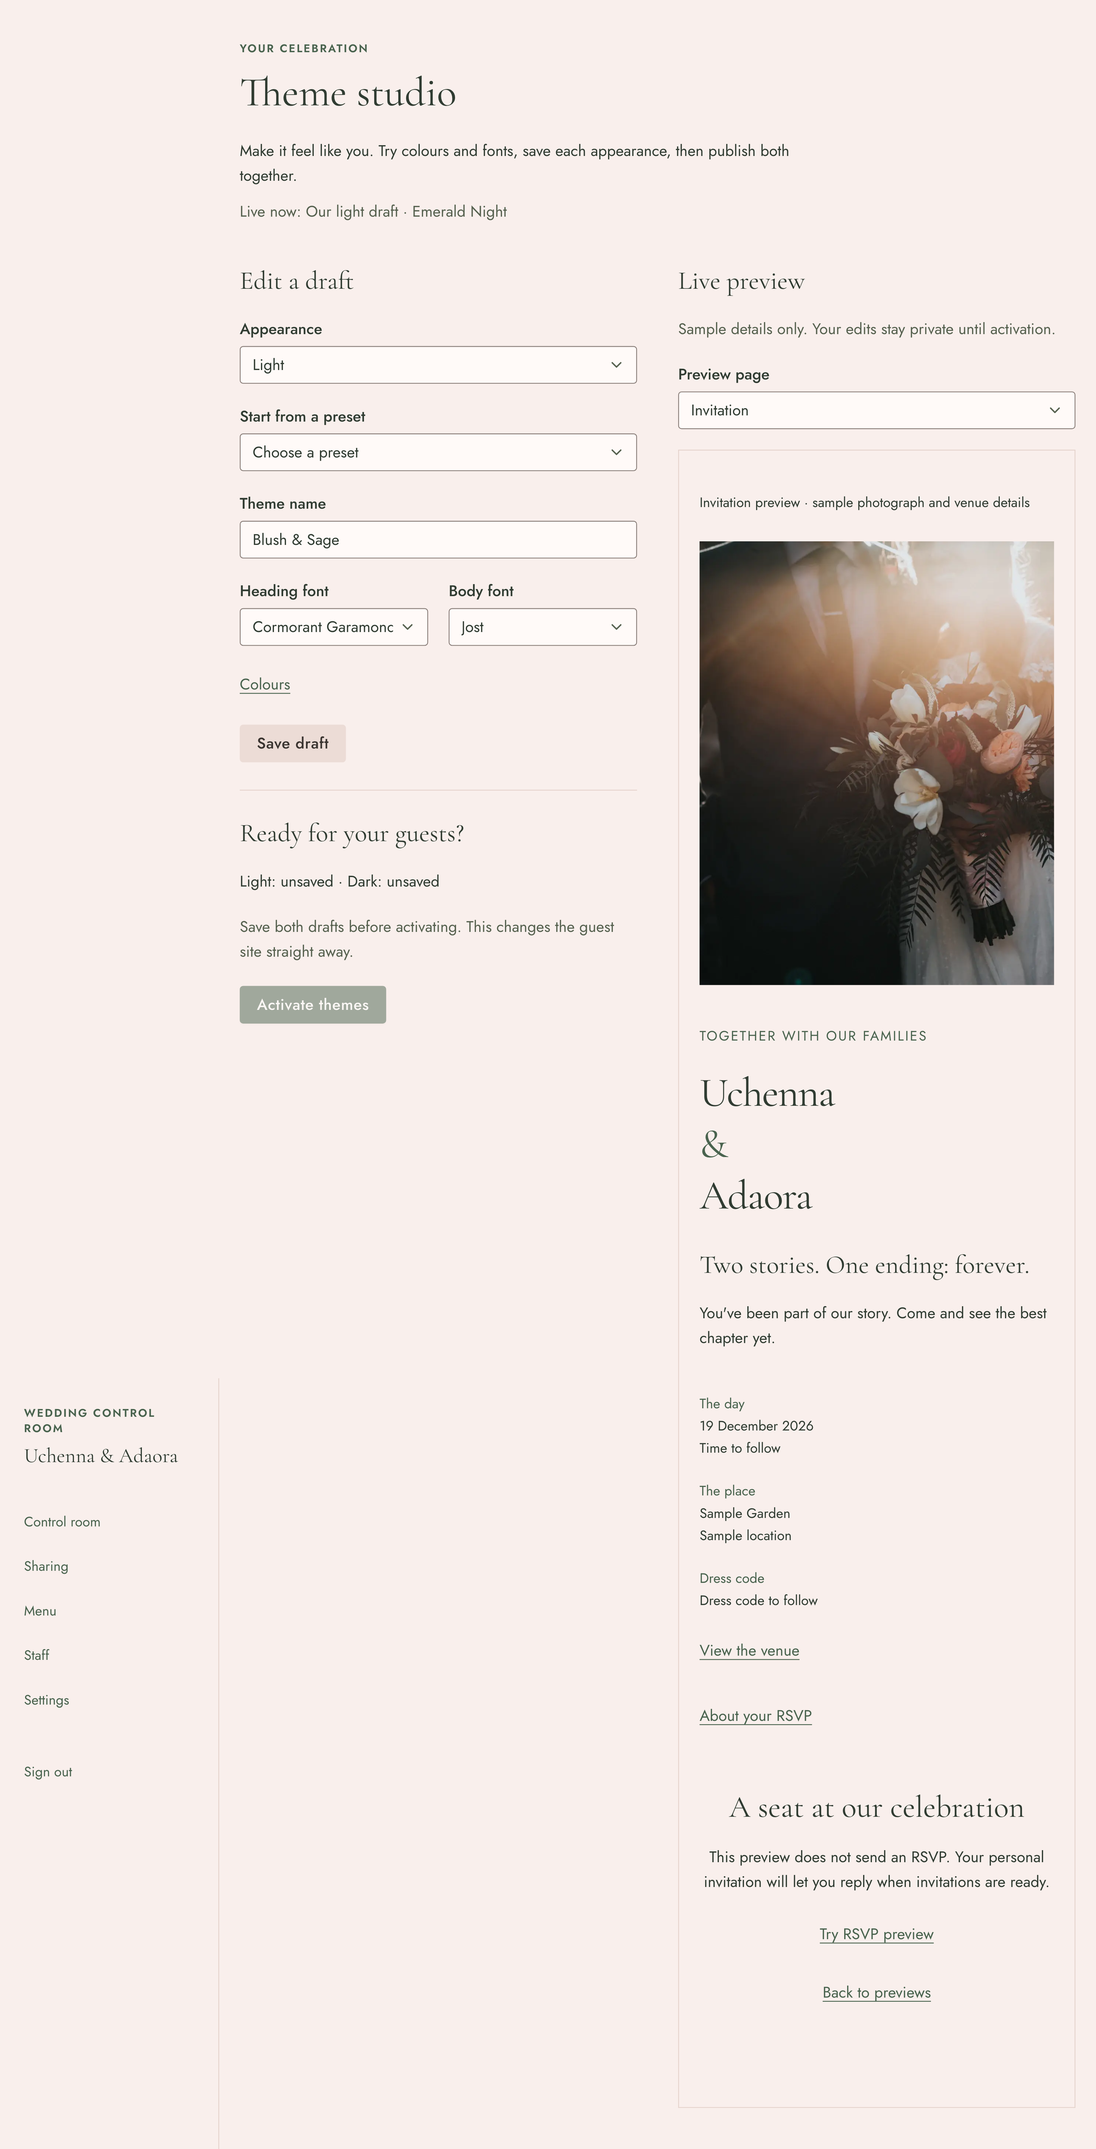
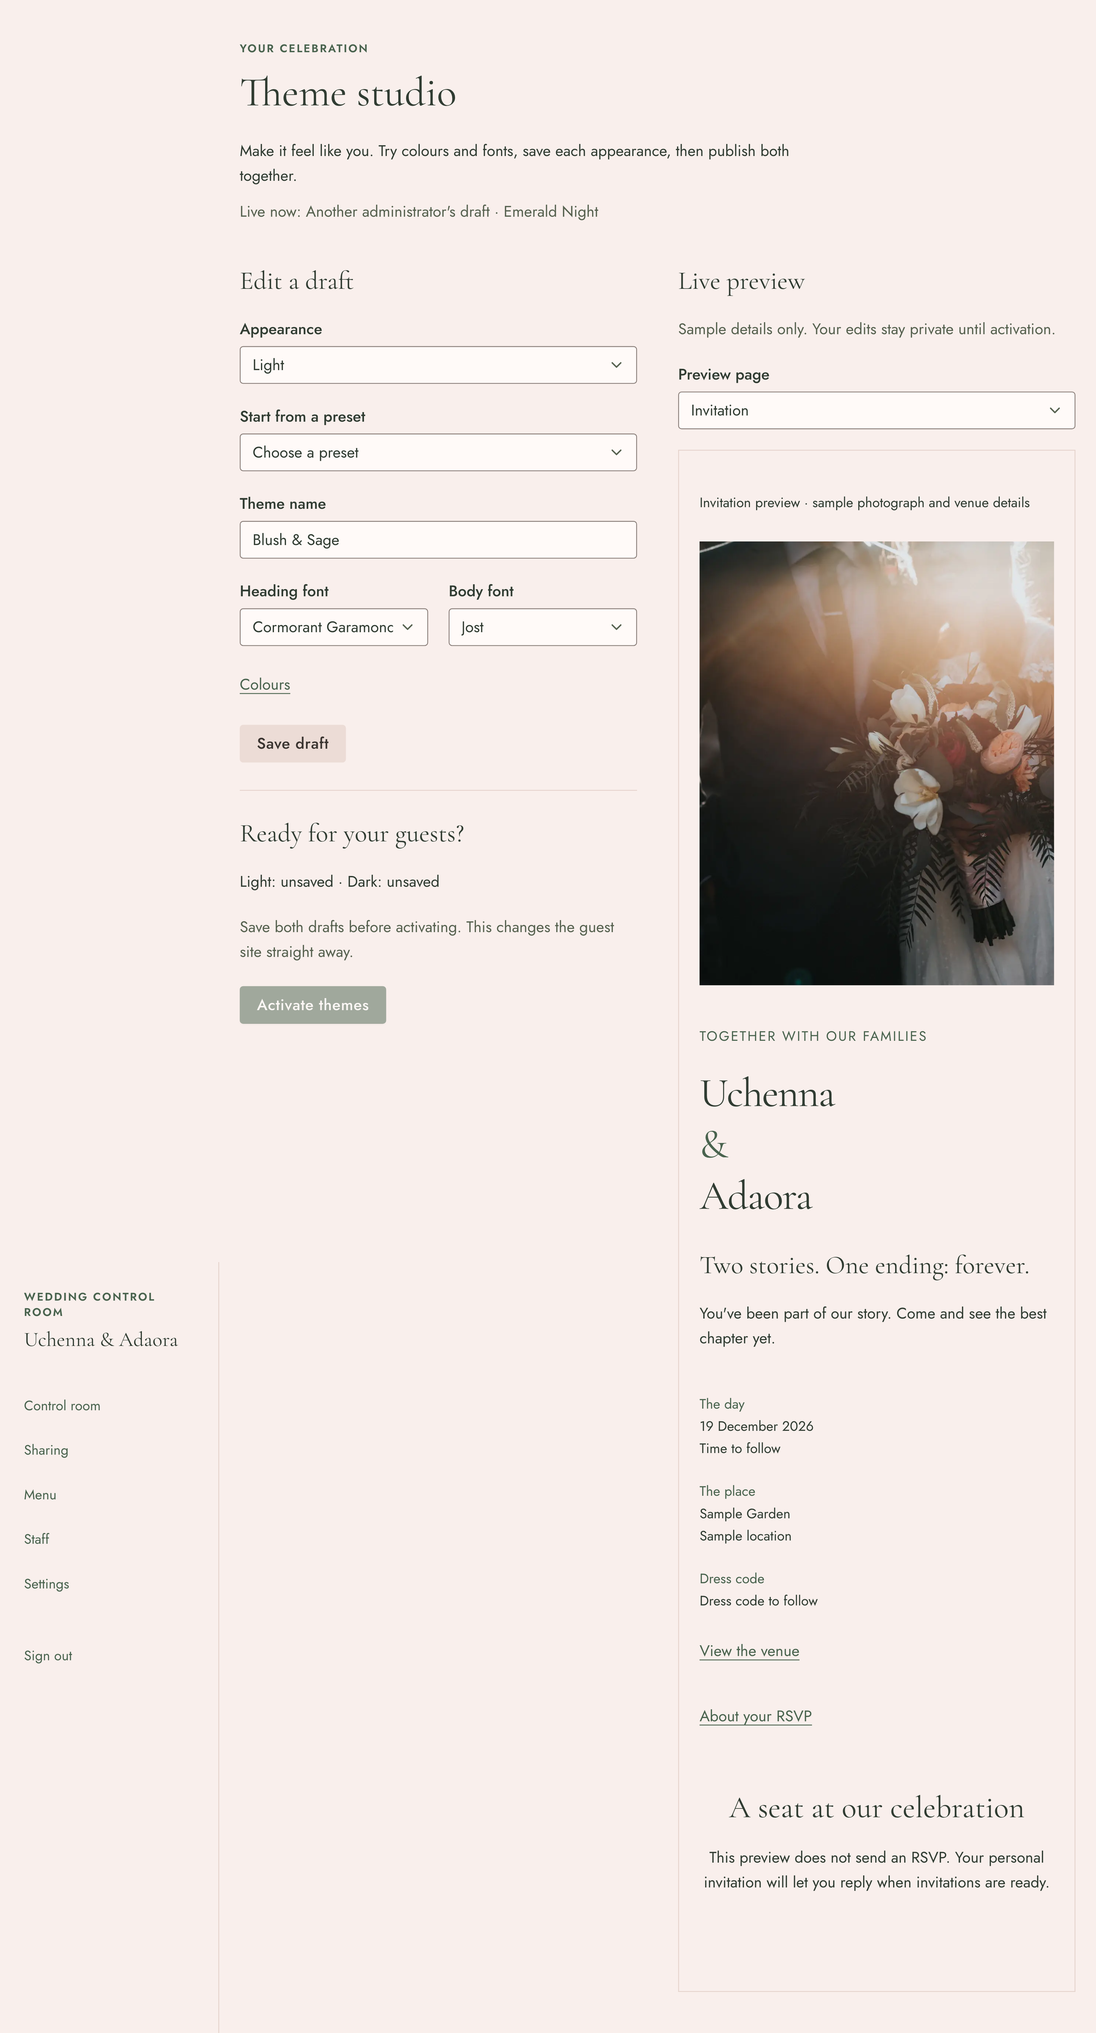
TICKET-098: guard reviewed theme publication and embedded previews

diff --git a/e2e/admin-themes.spec.ts b/e2e/admin-themes.spec.ts
@@ -69,6 +69,7 @@ test.describe("theme studio", () => {
     expect(await db`select id from themes where id='wedding-light'`).toHaveLength(0);
     const frame = page.getByRole("region", { name: "Draft page preview" });
     await expect(frame.getByRole("heading", { name: /Uchenna/ })).toBeVisible();
+    await expect(frame.locator('a[href^="/dev"]')).toHaveCount(0);
     await page.getByLabel("foreground hex", { exact: true }).fill(light.colors.foreground);
     await page.getByLabel("Theme name").fill("Our light draft");
     await page.getByLabel("Heading font").focus();
@@ -87,8 +88,37 @@ test.describe("theme studio", () => {
     await page.reload();
     await expect(page.getByLabel("Theme name")).toHaveValue("Our light draft");
     await expect(page.getByLabel("Heading font")).toHaveValue("playfair");
-    await page.getByLabel("Preview page").selectOption("order");
+    await page.getByLabel("Preview page").scrollIntoViewIfNeeded();
+    await page.getByLabel("Preview page").focus();
+    await expect(page.getByLabel("Preview page")).toBeFocused();
+    await page.keyboard.press("ArrowDown");
+    await expect(page.getByLabel("Preview page")).toHaveValue("order");
+    await expect(page.getByLabel("Preview page")).toBeFocused();
     await expect(frame.getByRole("heading", { name: "Where are you sitting?" })).toBeVisible();
+    await frame.getByLabel("Table number").fill("1");
+    await frame.getByRole("button", { name: "Browse menu" }).click();
+    await expect(
+      frame.getByRole("heading", { name: "Hungry? Thirsty? Say the word." }),
+    ).toBeFocused();
+    const otherEditor = await page.context().newPage();
+    try {
+      await otherEditor.goto("/admin/themes");
+      await otherEditor.getByLabel("Theme name").fill("Another administrator's draft");
+      await otherEditor.getByRole("button", { name: "Save draft", exact: true }).click();
+      await expect(otherEditor.getByRole("main").getByRole("status").last()).toContainText(
+        "Draft saved",
+      );
+      await page.getByRole("button", { name: "Activate themes" }).click();
+      await expect(page.getByRole("main").getByRole("alert").last()).toContainText(
+        "changed in another editor",
+      );
+      const [unpublished] = await db`select published_tokens from themes where id='wedding-light'`;
+      expect(unpublished?.published_tokens).toBeNull();
+    } finally {
+      await otherEditor.close();
+    }
+    await page.reload();
+    await expect(page.getByLabel("Theme name")).toHaveValue("Another administrator's draft");
     await page.getByRole("button", { name: "Activate themes" }).click();
     await expect(page.getByRole("main").getByRole("status").last()).toContainText(
       "Your themes are live",

diff --git a/src/modules/theming/__tests__/active-themes.test.ts b/src/modules/theming/__tests__/active-themes.test.ts
@@ -20,6 +20,9 @@ vi.mock("../server/theme-repository", () => ({
 
 vi.mock("../server/theme-draft-repository", () => ({ publishThemeDrafts: ports.save }));
 
+import { getTheme } from "../lib/registry";
+const reviewed = { light: getTheme("ivory-gold"), dark: getTheme("emerald-night") };
+
 import { activateThemeSelection, getStoredActiveThemes } from "../server/active-themes";
 
 afterEach(() => {
@@ -36,8 +39,12 @@ describe("theme cache boundary", () => {
   });
   it("expires the same tag immediately after a persisted activation", async () => {
     ports.save.mockResolvedValue(undefined);
-    await activateThemeSelection({ light: "ivory-gold", dark: "emerald-night" });
-    expect(ports.save).toHaveBeenCalledWith({ light: "ivory-gold", dark: "emerald-night" });
+    await activateThemeSelection({ light: "ivory-gold", dark: "emerald-night", reviewed });
+    expect(ports.save).toHaveBeenCalledWith(
+      { light: "ivory-gold", dark: "emerald-night" },
+      undefined,
+      reviewed,
+    );
     expect(ports.invalidate).toHaveBeenCalledWith("active-theme-pair", { expire: 0 });
     expect(ports.save.mock.invocationCallOrder[0]).toBeLessThan(
       ports.invalidate.mock.invocationCallOrder[0] ?? 0,
@@ -57,7 +64,15 @@ describe("theme cache boundary", () => {
 it("does not invalidate the active cache if publication fails", async () => {
   ports.save.mockRejectedValueOnce(new Error("publication rolled back"));
   await expect(
-    activateThemeSelection({ light: "ivory-gold", dark: "emerald-night" }),
+    activateThemeSelection({ light: "ivory-gold", dark: "emerald-night", reviewed }),
   ).rejects.toThrow("publication rolled back");
+  expect(ports.invalidate).not.toHaveBeenCalled();
+});
+
+it("requires reviewed tokens rather than publishing by ID alone", async () => {
+  await expect(
+    activateThemeSelection({ light: "ivory-gold", dark: "emerald-night" }),
+  ).rejects.toThrow();
+  expect(ports.save).not.toHaveBeenCalled();
   expect(ports.invalidate).not.toHaveBeenCalled();
 });

diff --git a/src/modules/admin/__tests__/theme-actions.test.ts b/src/modules/admin/__tests__/theme-actions.test.ts
@@ -1,5 +1,7 @@
 import { beforeEach, expect, it, vi } from "vitest";
 import { themes } from "@/modules/theming/themes";
+import { getTheme } from "@/modules/theming/lib/registry";
+import { ThemeValidationError } from "@/modules/theming/lib/load-theme";
 const ports = vi.hoisted(() => ({ access: vi.fn(), save: vi.fn(), activate: vi.fn() }));
 vi.mock("../server/current-admin-access", () => ({ currentAdminAccess: ports.access }));
 vi.mock("@/modules/theming/server/theme-draft-repository", () => ({
@@ -35,7 +37,11 @@ it("saves valid drafts only after the ready administrator check", async () => {
   );
 });
 it("activates through the atomic publication/cache service", async () => {
-  const selection = { light: "ivory-gold", dark: "emerald-night" };
+  const selection = {
+    light: "ivory-gold",
+    dark: "emerald-night",
+    reviewed: { light: getTheme("ivory-gold"), dark: getTheme("emerald-night") },
+  };
   expect(await activateThemeDraftAction(selection)).toEqual({ status: "activated" });
   expect(ports.activate).toHaveBeenCalledExactlyOnceWith(selection);
 });
@@ -44,4 +50,17 @@ it("does not disclose storage exception text", async () => {
   const result = await activateThemeDraftAction({ light: "ivory-gold", dark: "emerald-night" });
   expect(result.status).toBe("unavailable");
   expect(JSON.stringify(result)).not.toContain("private connection");
+});
+
+it("returns a recoverable validation message for stale draft publication", async () => {
+  ports.activate.mockRejectedValue(
+    new ThemeValidationError("Saved drafts changed. Reload to review."),
+  );
+  expect(
+    await activateThemeDraftAction({
+      light: "ivory-gold",
+      dark: "emerald-night",
+      reviewed: { light: getTheme("ivory-gold"), dark: getTheme("emerald-night") },
+    }),
+  ).toEqual({ status: "invalid", message: "Saved drafts changed. Reload to review." });
 });

diff --git a/scripts/__tests__/theme-publication.integration.test.ts b/scripts/__tests__/theme-publication.integration.test.ts
@@ -73,6 +73,28 @@ describe.runIf(process.env.RUN_THEME_PUBLICATION_DB_TESTS === "1")(
         expect(active.map((row) => row.id).sort()).toEqual([pair.light.id, pair.dark.id].sort());
       }));
 
+    it("rejects a stale editor snapshot without publishing or changing selection", () =>
+      isolated(async (database) => {
+        const { persistThemeDraft, publishThemeDrafts } =
+          await import("../../src/modules/theming/server/theme-draft-repository");
+        const { loadPublishedThemeSelection } =
+          await import("../../src/modules/theming/server/theme-repository");
+        const pair = fixture();
+        const ids = { light: pair.light.id, dark: pair.dark.id };
+        await persistThemeDraft(pair.light, database);
+        await persistThemeDraft(pair.dark, database);
+        await publishThemeDrafts(ids, database, pair);
+        const before = await loadPublishedThemeSelection(database);
+        const changed = { ...pair.light, name: "Other administrator's draft" };
+        await persistThemeDraft(changed, database);
+        await expect(publishThemeDrafts(ids, database, pair)).rejects.toThrow(/changed.*Reload/);
+        expect(await loadPublishedThemeSelection(database)).toEqual(before);
+        await publishThemeDrafts(ids, database, { ...pair, light: changed });
+        expect((await loadPublishedThemeSelection(database))?.published.light).toMatchObject({
+          name: changed.name,
+        });
+      }));
+
     it("preserves the selected pair when stored draft validation fails", () =>
       isolated(async (database) => {
         const { persistThemeDraft, publishThemeDrafts } =

diff --git a/src/modules/theming/server/theme-draft-repository.ts b/src/modules/theming/server/theme-draft-repository.ts
@@ -2,10 +2,10 @@ import "server-only";
 import { eq, inArray, sql } from "drizzle-orm";
 import { db, schema, type Db } from "@/modules/shared/server/db/client";
 import { getTheme } from "../lib/registry";
-import type { Theme } from "../lib/schema";
+import type { ActiveThemes, Theme } from "../lib/schema";
 import type { ThemeSelection } from "./stored-themes";
 import { saveThemeSelection } from "./theme-repository";
-import { validateThemePublication } from "./theme-publication";
+import { assertThemeDraftsUnchanged, validateThemePublication } from "./theme-publication";
 
 /** Internal only: caller must validate tokens and authorize an AAL2 administrator. */
 export async function persistThemeDraft(theme: Theme, database: Pick<Db, "insert"> = db) {
@@ -26,6 +26,7 @@ export async function persistThemeDraft(theme: Theme, database: Pick<Db, "insert
 export async function publishThemeDrafts(
   selection: ThemeSelection,
   database: Pick<Db, "transaction"> = db,
+  reviewed?: ActiveThemes,
 ) {
   return database.transaction(async (tx) => {
     // One transaction-scoped lock serializes all publications, including initial setup.
@@ -44,6 +45,7 @@ export async function publishThemeDrafts(
     if (pair.light.id !== selection.light || pair.dark.id !== selection.dark) {
       throw new Error("Stored theme identity does not match its selection");
     }
+    if (reviewed) assertThemeDraftsUnchanged(pair, reviewed);
     await tx.update(schema.themes).set({ isActive: false }).where(eq(schema.themes.isActive, true));
     for (const theme of [pair.light, pair.dark]) {
       await tx

diff --git a/src/modules/theming/__tests__/theme-publication.test.ts b/src/modules/theming/__tests__/theme-publication.test.ts
@@ -1,5 +1,5 @@
 import { expect, it } from "vitest";
-import { validateThemePublication } from "../server/theme-publication";
+import { assertThemeDraftsUnchanged, validateThemePublication } from "../server/theme-publication";
 import { themes } from "../themes";
 
 const light = themes.find((theme) => theme.colorScheme === "light");
@@ -21,4 +21,28 @@ it("rejects invalid draft tokens before activation", () => {
 });
 it("rejects a missing side of the pair", () => {
   expect(() => validateThemePublication({ light })).toThrow();
+});
+
+it("rejects another editor's saved changes before publication", () => {
+  expect(() =>
+    assertThemeDraftsUnchanged(
+      { light: { ...light, name: "Another editor" }, dark },
+      { light, dark },
+    ),
+  ).toThrow(/changed.*reload/i);
+});
+it("accepts identical reviewed tokens even with different property order", () => {
+  expect(() =>
+    assertThemeDraftsUnchanged(
+      { light, dark },
+      { dark, light: Object.fromEntries(Object.entries(light).reverse()) },
+    ),
+  ).not.toThrow();
+});
+
+it("treats omitted optional fields the same as undefined after JSON storage", () => {
+  const reviewed = { light: { ...light, pattern: undefined }, dark };
+  expect(() =>
+    assertThemeDraftsUnchanged(JSON.parse(JSON.stringify(reviewed)), reviewed),
+  ).not.toThrow();
 });

diff --git a/src/modules/invitations/components/invitation-view.tsx b/src/modules/invitations/components/invitation-view.tsx
@@ -96,20 +96,24 @@ export function InvitationView({
           This preview does not send an RSVP. Your personal invitation will let you reply when
           invitations are ready.
         </p>
-        <div>
-          <Link
-            href={appRoutes.devRsvp.path}
-            className="mt-6 inline-flex min-h-11 items-center text-primary underline underline-offset-4"
-          >
-            Try RSVP preview
-          </Link>
-        </div>
-        <Link
-          className="mt-6 inline-flex min-h-11 items-center text-primary underline underline-offset-4"
-          href={appRoutes.dev.path}
-        >
-          Back to previews
-        </Link>
+        {!embedded && (
+          <>
+            <div>
+              <Link
+                href={appRoutes.devRsvp.path}
+                className="mt-6 inline-flex min-h-11 items-center text-primary underline underline-offset-4"
+              >
+                Try RSVP preview
+              </Link>
+            </div>
+            <Link
+              className="mt-6 inline-flex min-h-11 items-center text-primary underline underline-offset-4"
+              href={appRoutes.dev.path}
+            >
+              Back to previews
+            </Link>
+          </>
+        )}
       </section>
     </Container>
   );

diff --git a/src/modules/theming/server/active-themes.ts b/src/modules/theming/server/active-themes.ts
@@ -1,6 +1,8 @@
 import "server-only";
 import { cacheLife, cacheTag, revalidateTag } from "next/cache";
 import { logger } from "@/modules/shared/lib/logger";
+import { z } from "zod";
+import { validateThemePublication } from "./theme-publication";
 import { readStoredThemes, selectionSchema } from "./stored-themes";
 
 const THEME_TAG = "active-theme-pair";
@@ -34,8 +36,13 @@ export async function getStoredActiveThemes() {
 
 /** Internal only. Admin actions must authorize before calling this service. */
 export async function activateThemeSelection(input: unknown): Promise<void> {
-  const selection = selectionSchema.parse(input);
+  const { reviewed, ...selection } = selectionSchema
+    .extend({
+      reviewed: z.object({ light: z.unknown(), dark: z.unknown() }).strict(),
+    })
+    .parse(input);
+  const expected = validateThemePublication(reviewed);
   const { publishThemeDrafts } = await import("./theme-draft-repository");
-  await publishThemeDrafts(selection);
+  await publishThemeDrafts(selection, undefined, expected);
   revalidateTag(THEME_TAG, { expire: 0 });
 }

diff --git a/src/modules/theming/server/theme-publication.ts b/src/modules/theming/server/theme-publication.ts
@@ -1,4 +1,5 @@
 import "server-only";
+import { isDeepStrictEqual } from "node:util";
 import { z } from "zod";
 import { loadTheme, ThemeValidationError } from "../lib/load-theme";
 import type { ActiveThemes } from "../lib/schema";
@@ -16,4 +17,16 @@ export function validateThemePublication(input: unknown): ActiveThemes {
     );
   }
   return { light, dark };
+}
+
+/** Compare normalized tokens, never property ordering, while draft rows are locked. */
+export function assertThemeDraftsUnchanged(current: unknown, reviewed: unknown): void {
+  // JSON persistence omits optional properties whose value is undefined.
+  const normalize = (input: unknown): unknown =>
+    JSON.parse(JSON.stringify(validateThemePublication(input)));
+  if (!isDeepStrictEqual(normalize(current), normalize(reviewed))) {
+    throw new ThemeValidationError(
+      "The saved drafts changed in another editor. Reload to review them before activating.",
+    );
+  }
 }

diff --git a/src/modules/ordering/components/order-preview.tsx b/src/modules/ordering/components/order-preview.tsx
@@ -48,10 +48,12 @@ export function OrderPreview({
   const [errors, setErrors] = useState<Record<string, string>>({});
   const heading = useRef<HTMLHeadingElement>(null);
   const form = useRef<HTMLFormElement>(null);
+  const previousStep = useRef(step);
   const theme = themes.find((theme) => theme.id === themeId);
   const selected = SAMPLE_MENU.filter((item) => (quantities[item.id] ?? 0) > 0);
   useEffect(() => {
-    if (!embedded) heading.current?.focus();
+    if (!embedded || previousStep.current !== step) heading.current?.focus();
+    previousStep.current = step;
   }, [step, embedded]);
   useEffect(() => {
     if (Object.keys(errors).length)

diff --git a/src/modules/admin/components/theme-editor.tsx b/src/modules/admin/components/theme-editor.tsx
@@ -58,7 +58,11 @@ export function ThemeEditor({ active, drafts }: { active: ActiveThemes; drafts: 
     setFailure(false);
     startTransition(async () => {
       try {
-        const result = await activateThemeDraftAction({ light: pair.light.id, dark: pair.dark.id });
+        const result = await activateThemeDraftAction({
+          light: pair.light.id,
+          dark: pair.dark.id,
+          reviewed: pair,
+        });
         setFailure(result.status !== "activated");
         setMessage(
           result.status === "activated"

diff --git a/docs/plans/TICKET-098-pr.md b/docs/plans/TICKET-098-pr.md
@@ -13,16 +13,19 @@ Admins can now edit a light/dark theme pair at `/admin/themes`, preview invitati
 - Reuse TICKET-181 save/activate actions and published snapshots. Invalid drafts show named contrast pairs; unsaved or invalid pairs cannot activate.
 - Scope draft styles to embedded existing preview components. Preserve CSP frame restrictions and public component defaults.
 - Add helper tests and a real OTP/TOTP database-backed browser journey, including reload persistence and fresh no-JavaScript guest HTML after activation.
+- Reject activation when another administrator saved different tokens after the displayed draft was loaded. Compare normalized reviewed tokens inside the publication transaction after row locking; no partial publication or cache invalidation on rejection.
+- Keep embedded invitation previews inside the editor and focus the order heading after user-initiated step transitions without stealing initial editor focus.
 
 # Acceptance criteria and evidence
 
-The authenticated journey proves invalid saves create no draft, valid saves remain unpublished, reload preserves font/name choices, and activation changes both server-rendered guest appearances without deployment. Source and screenshots are in `docs/reviews/TICKET-098/`; final corrected-preview rerun passed in 17.2 seconds.
+The authenticated journey proves invalid saves create no draft, valid saves remain unpublished, reload preserves font/name choices, and activation changes both server-rendered guest appearances without deployment. Source and screenshots are in `docs/reviews/TICKET-098/`; the latest review-regression journey passed in 27.8 seconds.
 
 # Verification
 
 - `pnpm verify`: passed before the final embedded layout correction; 1,091 unit tests passed / 107 skipped; 851 browser smoke tests passed / 195 skipped. Lint, types and build passed.
 - `pnpm exec tsx scripts/test-theme-editor.ts`: passed before that correction; authenticates with OTP/TOTP and asserts zero Axe violations and no horizontal overflow in 24 combinations.
 - Final correction keeps the narrow embedded invitation single-column, preserving normal public-page breakpoints. Final quick verification, production rebuild and focused browser regression all passed.
+- Review corrections: quick verification passed; six isolated publication database tests passed, including stale draft rejection without changing the live selection. The authenticated browser journey passed in 27.8 seconds, including two-tab conflict/reload/activation, keyboard focus, no embedded development links, guest SSR and all 24 Axe/overflow combinations.
 - Physical-device, fresh Lighthouse and exact-zero CLS checks remain unverified. No claim of full UI completion.
 
 # Risks and rollout
@@ -35,7 +38,7 @@ No migration, dependency, CI, account or production-data change. Requires the al
 
 # UI checklist
 
-Detailed PASS/N/A/not-verified evidence: `docs/reviews/TICKET-098/ui-review.md`. Device and fresh performance/CLS checks are not verified; this PR remains draft until review disposition is approved. TICKET-201 remains release-blocking.
+Detailed PASS/N/A/not-verified evidence: `docs/reviews/TICKET-098/ui-review.md`. Device and fresh performance/CLS checks are not verified; the user authorized progression through review while retaining these release gates. TICKET-201 remains release-blocking.
 
 # Harness changes, if any
 
